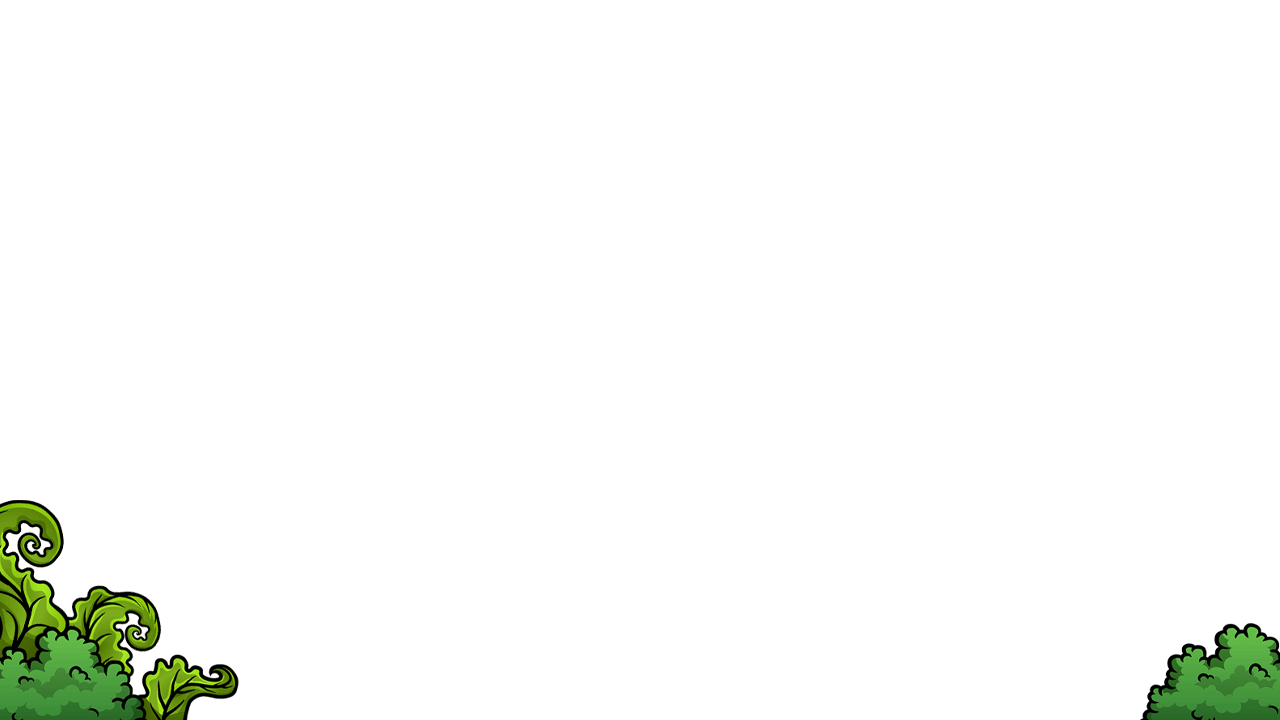
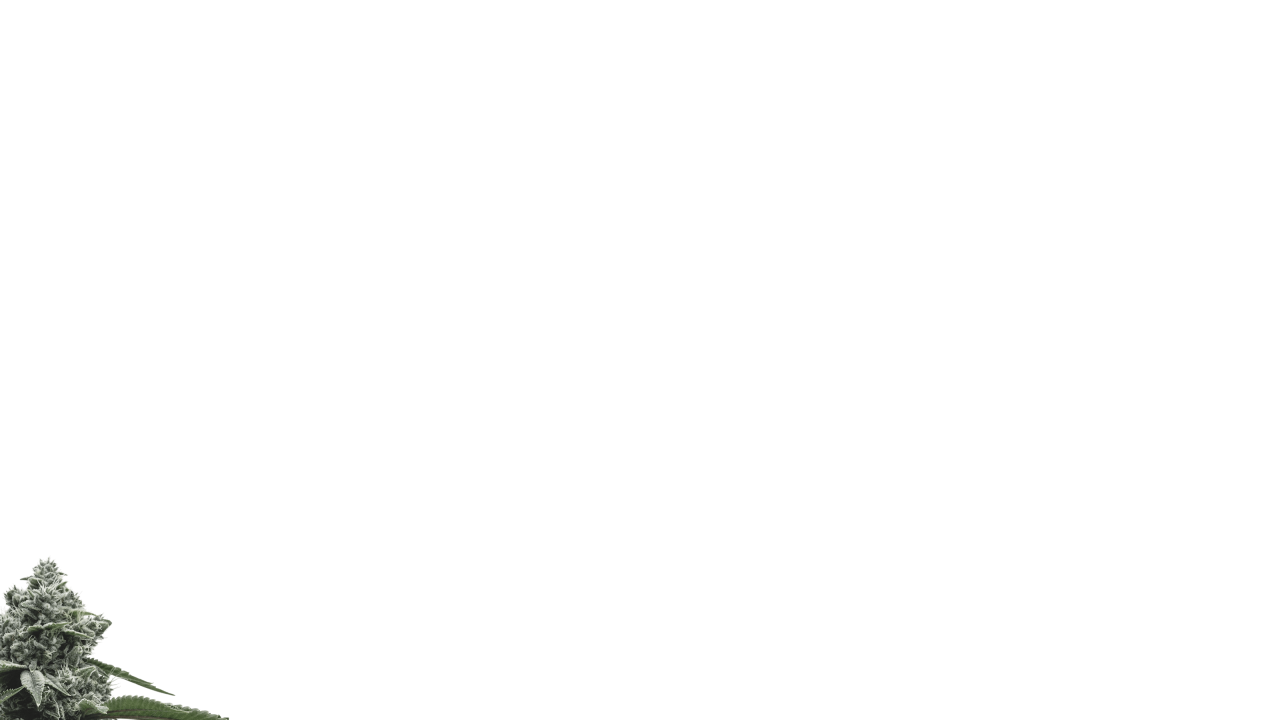
feat: update with new theme

Changed region(s): [[0.0, 0.6722, 0.1875, 1.0], [0.875, 0.8556, 1.0, 1.0]]

diff --git a/main.js b/main.js
@@ -2,7 +2,7 @@ window.addEventListener("load", function () {
   const cvas = this.document.getElementById("canvas1");
   const ctx = cvas.getContext("2d");
   cvas.width = 1280;
-  cvas.height = 720;
+  cvas.height = 1000;
   //frequent changes to canvas state can cause performance issues
   //that is why we do then here
   ctx.fillStyle = "white";
@@ -191,7 +191,7 @@ window.addEventListener("load", function () {
       this.spriteX;
       this.spriteY;
       this.hatchTimer = 0;
-      this.hatchInterval = 3000;
+      this.hatchInterval = 5000;
       this.markedForDeletion = false;
     }
     draw(context) {
@@ -263,8 +263,7 @@ window.addEventListener("load", function () {
       this.height = this.spriteHeight;
       this.collisionX = this.game.width + Math.random() * this.game.width * 0.5; //give each one a random delay
       this.collisionY =
-        this.game.topMargin +
-        Math.random() * (this.game.height - this.game.topMargin);
+        this.game.topMargin + Math.random() * (720 - this.game.topMargin);
       this.spriteX;
       this.spriteY;
       this.frameX = 0;
@@ -387,7 +386,7 @@ window.addEventListener("load", function () {
         if (!this.game.gameOver) this.game.score++;
         for (let i = 0; i < 3; i++) {
           this.game.particles.push(
-            new Firefly(this.game, this.collisionX, this.collisionY, "yellow")
+            new Firefly(this.game, this.collisionX, this.collisionY, "green")
           );
         }
       }
@@ -415,7 +414,7 @@ window.addEventListener("load", function () {
           for (let i = 0; i < 5; i++) {
             //use 5 fpr performance
             this.game.particles.push(
-              new Spark(this.game, this.collisionX, this.collisionY, "blue")
+              new Spark(this.game, this.collisionX, this.collisionY, "red")
             );
           }
         }
@@ -488,7 +487,7 @@ window.addEventListener("load", function () {
       this.fps = 70;
       this.topMargin = 260;
       this.score = 0;
-      this.winningScore = 30;
+      this.winningScore = 10;
       this.lostHatchlings = 0;
       this.mouse = {
         x: this.width * 0.5,
@@ -501,12 +500,12 @@ window.addEventListener("load", function () {
       //obstacles
       this.timer = 0;
       this.interval = 1000 / this.fps;
-      this.numberOfObstacles = 5;
+      this.numberOfObstacles = 4;
       this.obstacles = [];
       //egg
       this.eggTimer = 0;
       this.eggInterval = 1000;
-      this.maxEggs = 29;
+      this.maxEggs = 3;
       this.eggs = [];
       //enemies
       this.enemies = [];
@@ -599,9 +598,7 @@ window.addEventListener("load", function () {
       context.save();
       context.textAlign = "left";
       context.fillText("Score " + this.score, 25, 50);
-      if (this.debug) {
-        context.fillText("Lost " + this.lostHatchlings, 25, 100);
-      }
+      context.fillText("Lost " + this.lostHatchlings, 25, 100);
       context.restore();
       //win/lose message
 
@@ -625,21 +622,21 @@ window.addEventListener("load", function () {
           //lose
           message1 = "Dang!";
           message2 =
-            "You lost " +
+            " You lost " +
             this.lostHatchlings +
-            " hatchlings, don't be a pushover!";
+            " colas, don't be a pushover! ";
         }
 
         context.font = "130px Bangers";
-        context.fillText(message1, this.width * 0.5, this.height * 0.5 - 20);
+        context.fillText(message1, this.width * 0.5, this.height * 0.3);
 
         context.font = "40px Bangers";
         context.fillText(message2, this.width * 0.5, this.height * 0.5 + 30);
 
         context.fillText(
-          "Final Score " +
+          " You gathered 10g and lost less than half your stash " +
             this.score +
-            ". Press 'R' to keep saving hatchlings!",
+            ". Press 'R' to keep saving colas! ",
           this.width * 0.5,
           this.height * 0 + 450
         );

diff --git a/main.css b/main.css
@@ -5,17 +5,22 @@
   font-family: "Bangers", cursive;
 }
 #canvas1 {
-  background: url("background.png");
+  background: url("background.jpg");
   position: absolute;
   top: 50%;
   left: 50%;
   transform: translate(-50%, -50%);
 }
+#floating-leaves {
+  background: url("background.jpg");
+  position: absolute;
+  top: 50%;
+  left: 50%;
+}
 #overlay {
   position: absolute;
   top: 50%;
   left: 50%;
-  transform: translate(-50%, -50%);
   pointer-events: none;
 }
 #obstacles,

diff --git a/index.html b/index.html
@@ -10,7 +10,7 @@
   <body>
     
     <canvas id="canvas1"></canvas>
-    <img id="overlay" src="overlay.png">
+    <!-- <img id="overlay" src="overlay.png"> -->
     <img id="obstacles" src="obstacles.png">
     <img id="bull" src="bull.png">
     <img id="egg" src="egg.png">
